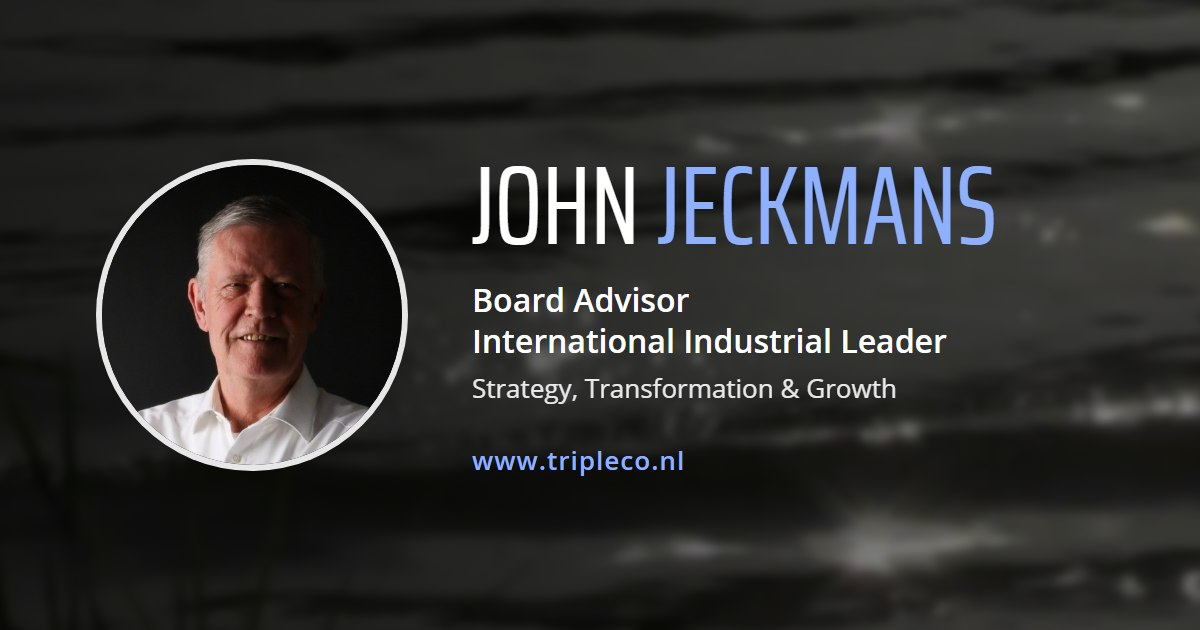
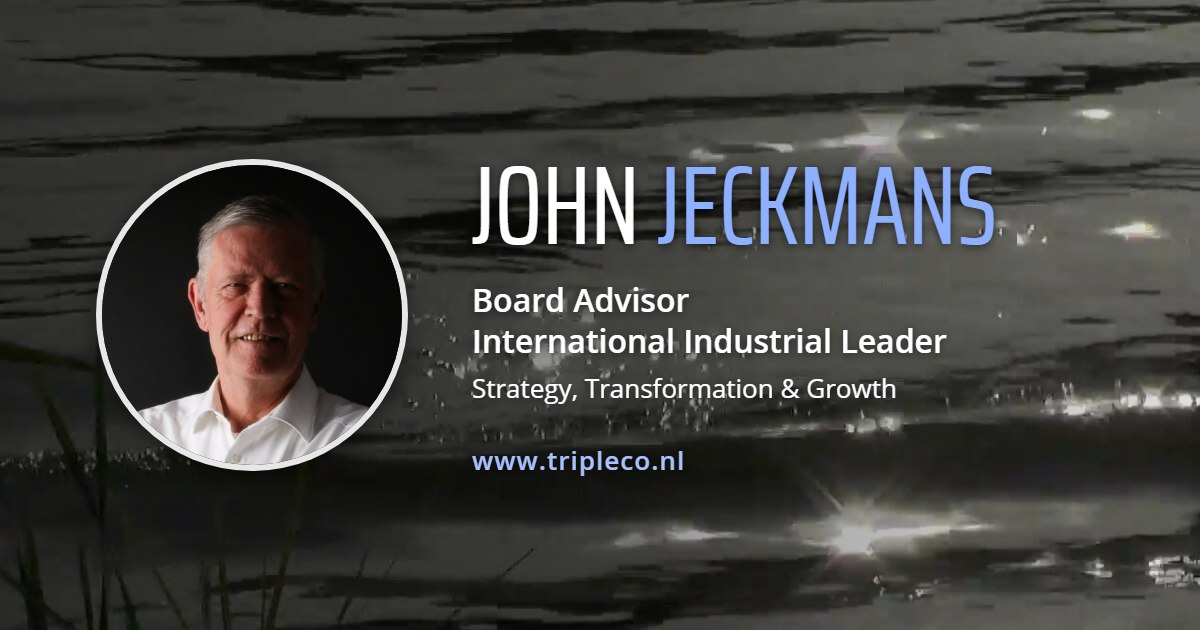
Make the background video autoplay; lighter share card
- The static `muted` attribute does not mute a video Angular creates,
  so browsers blocked autoplay and showed a still frame. Bind [muted],
  set it in code and start playback after render; add a test.
- Keep the 6.7 MB video out of the service worker cache, which can
  break playback (range requests), especially on iPhone.
- Share card: water frame nearly sharp and lighter, like the video;
  the captured mouse pointer is hidden.

diff --git a/PortfolioProject/src/app/app.ts b/PortfolioProject/src/app/app.ts
@@ -1,4 +1,4 @@
-import { Component, inject } from '@angular/core';
+import { afterNextRender, Component, ElementRef, inject, viewChild } from '@angular/core';
 import { FontAwesomeModule } from '@fortawesome/angular-fontawesome';
 
 import { LanguageSwitcher } from './components/language-switcher/language-switcher';
@@ -17,4 +17,19 @@ export class App {
   protected readonly email = 'john.jeckmans@tripleco.nl';
   /** Contact card with name, email and mobile number (the number is deliberately not shown on the page). */
   protected readonly vcard = 'John-Jeckmans.vcf';
+
+  private readonly heroVideo = viewChild<ElementRef<HTMLVideoElement>>('heroVideo');
+
+  constructor() {
+    // Browsers only autoplay muted video. The `muted` attribute alone does not mute a video that
+    // Angular creates, so set the property and start playback explicitly.
+    afterNextRender(() => {
+      const video = this.heroVideo()?.nativeElement;
+      if (!video) return;
+      video.muted = true;
+      video.play()?.catch(() => {
+        // Autoplay can still be refused (e.g. iPhone low-power mode): the first frame stays visible.
+      });
+    });
+  }
 }

diff --git a/PortfolioProject/src/app/app.spec.ts b/PortfolioProject/src/app/app.spec.ts
@@ -59,6 +59,13 @@ describe('App (business card page)', () => {
     expect(page.textContent).not.toContain('0638619522');
   });
 
+  it('mutes the background video so browsers allow it to autoplay', async () => {
+    const { page } = await render();
+    const video = page.querySelector<HTMLVideoElement>('.hero-video')!;
+    expect(video.muted).toBe(true);
+    expect(video.loop).toBe(true);
+  });
+
   it('shows the current year in the footer', async () => {
     const { page } = await render();
     expect(page.querySelector('.footer')?.textContent).toContain(String(new Date().getFullYear()));

diff --git a/PortfolioProject/src/app/app.html b/PortfolioProject/src/app/app.html
@@ -5,7 +5,7 @@
 <main>
   <!-- Introduction: water video, photo, name, headline, main actions -->
   <section id="home" class="hero">
-    <video loop muted autoplay playsinline aria-hidden="true" class="hero-video">
+    <video #heroVideo loop muted [muted]="true" autoplay playsinline preload="auto" aria-hidden="true" class="hero-video">
       <source src="assets/img/Video-background.mp4" type="video/mp4" />
     </video>
     <div class="hero-overlay"></div>
